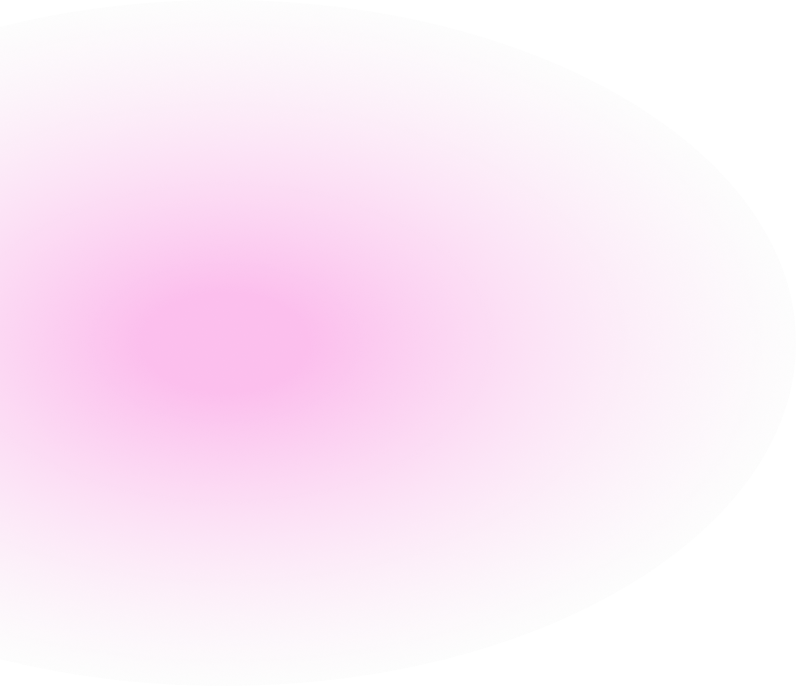
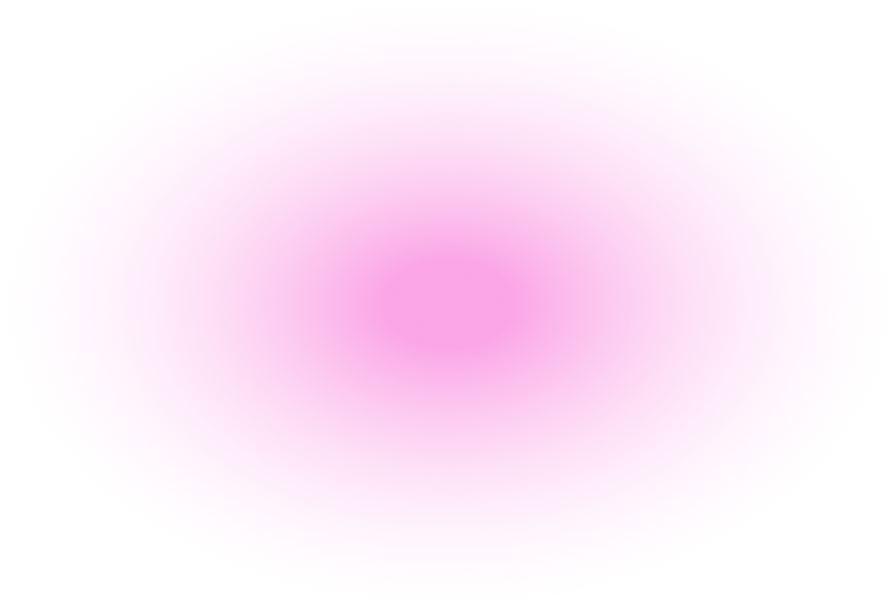
Footer fini - Homepage fini

Changed region(s): [[0.0, 0.2188, 0.3015, 0.7812], [0.392, 0.3125, 0.6935, 0.6875]]

diff --git a/style/style.scss b/style/style.scss
@@ -156,7 +156,8 @@ main {
   display: flex;
   flex-direction: column;
   align-items: flex-start;
-  gap: 50px;
+  gap: 80px;
+  margin-bottom: 80px;
 }
 
 .header-homepage {
@@ -479,7 +480,7 @@ main {
     content: "";
     position: absolute;
     bottom: -20px;
-    left: -10vw;
+    left: -35vw;
     width: 80%;
     height: 80%;
     background: url("/images/eclipse-rose.png");
@@ -744,6 +745,90 @@ main {
         .desactive-diplome {
           rotate: 180deg;
         }
+      }
+    }
+  }
+}
+// }
+
+// Footer {
+footer {
+  box-shadow: rgba(100, 100, 111, 0.2) 0px 7px 29px 0px;
+  display: flex;
+  min-height: 300px;
+  flex-direction: column;
+  gap: 20px;
+  padding: 50px;
+  border-radius: 20px;
+  position: relative;
+
+  &::before {
+    content: "";
+    position: absolute;
+    top: 40%;
+    right: 6%;
+    width: 80%;
+    height: 80%;
+    transform: translateY(-50%);
+    background: url("/images/eclipse-rose.png");
+    background-size: contain;
+    background-position: center;
+    background-repeat: no-repeat;
+    z-index: -4;
+  }
+
+  .footer-informations {
+    display: flex;
+    align-items: center;
+    gap: 70px;
+    height: 100%;
+
+    .footer-left {
+      width: 100%;
+      display: flex;
+      align-items: center;
+      justify-content: center;
+      flex-direction: column;
+      gap: 25px;
+
+      .footer-telephone,
+      .footer-mail {
+        background: rgba($color: white, $alpha: 0.4);
+        width: 100%;
+        display: flex;
+        align-items: flex-start;
+        justify-content: flex-start;
+        flex-direction: column;
+        gap: 20px;
+        box-shadow: rgba(100, 100, 111, 0.2) 0px 7px 29px 0px;
+        border-radius: 15px;
+        padding: 20px;
+      }
+    }
+
+    .footer-right {
+      width: 100%;
+      height: 230px;
+      display: flex;
+      flex-direction: column;
+      gap: 25px;
+      box-shadow: rgba(100, 100, 111, 0.2) 0px 7px 29px 0px;
+      border-radius: 15px;
+      padding: 20px;
+      position: relative;
+      background: rgba($color: white, $alpha: 0.4);
+
+      &::after {
+        content: "";
+        position: absolute;
+        bottom: 0;
+        right: 0;
+        width: 250px;
+        height: 250px;
+        background: url("/images/OnDiscute-Marine.png");
+        background-position: bottom left;
+        background-repeat: no-repeat;
+        background-size: contain;
       }
     }
   }

diff --git a/components/Footer.tsx b/components/Footer.tsx
@@ -1,0 +1,24 @@
+export default function Footer() {
+  return (
+    <footer>
+      <h3 className="footer-title">Travaillons enssemble !</h3>
+
+      <section className="footer-informations">
+        <section className="footer-left">
+          <section className="footer-telephone">
+            <h4 className="information-title">Telephone</h4>
+            <h3 className="information">06.13.81.09.81</h3>
+          </section>
+
+          <section className="footer-mail">
+            <h4 className="information-title">Mail</h4>
+            <h3 className="information">sicaud.marine.pro@gmail.com</h3>
+          </section>
+        </section>
+        <section className="footer-right">
+          <h3 className="information">On discute ?</h3>
+        </section>
+      </section>
+    </footer>
+  );
+}

diff --git a/app/layout.tsx b/app/layout.tsx
@@ -2,6 +2,7 @@ import { Metadata } from "next";
 
 import "../style/style.scss";
 import Navbar from "@/components/Navbar";
+import Footer from "@/components/Footer";
 
 export const metadata: Metadata = {
   title: "Marine Sicaud | Portfolio",
@@ -20,6 +21,8 @@ export default function RootLayout({
         </header>
 
         <main>{children}</main>
+
+        <Footer />
       </body>
     </html>
   );
